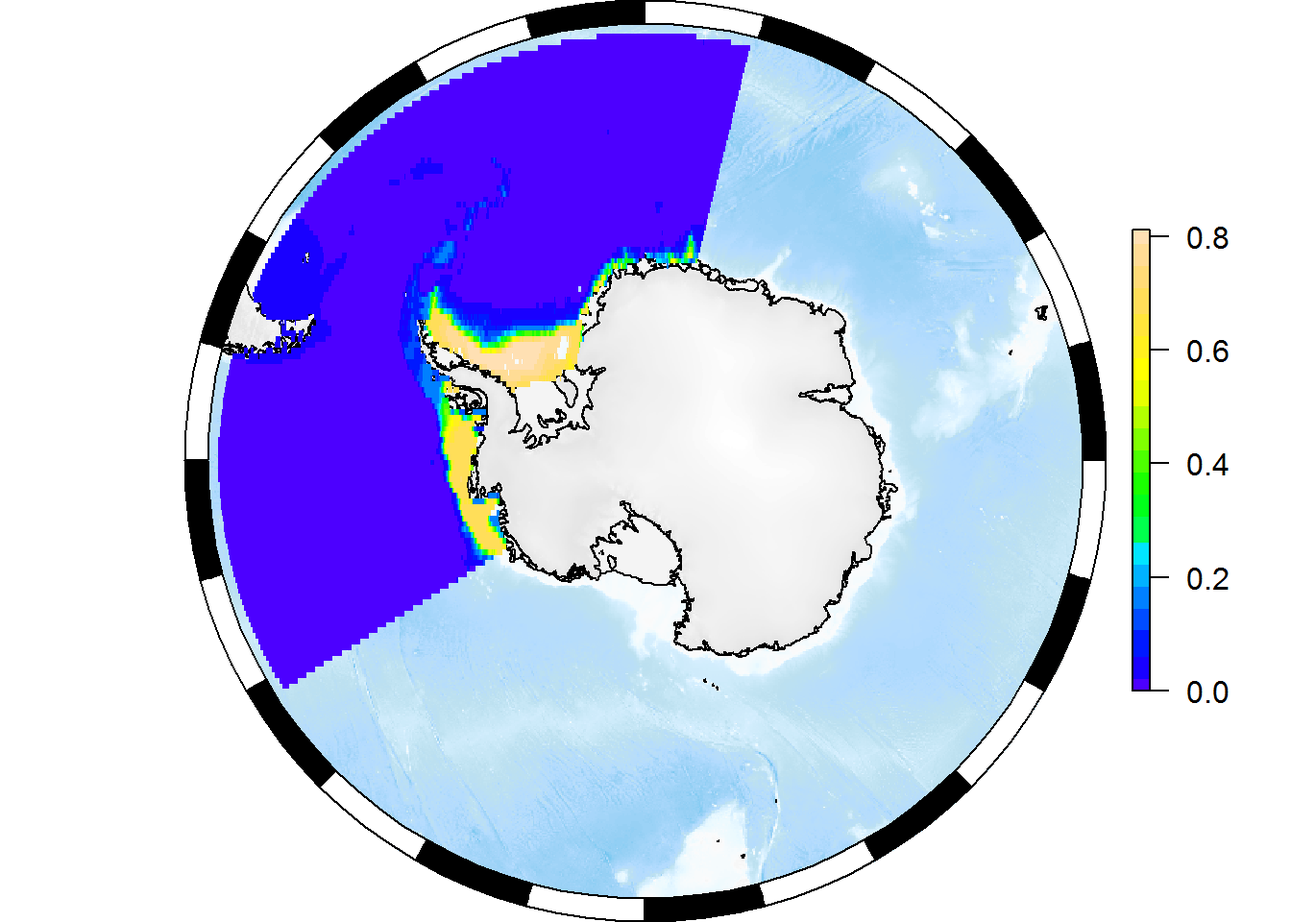
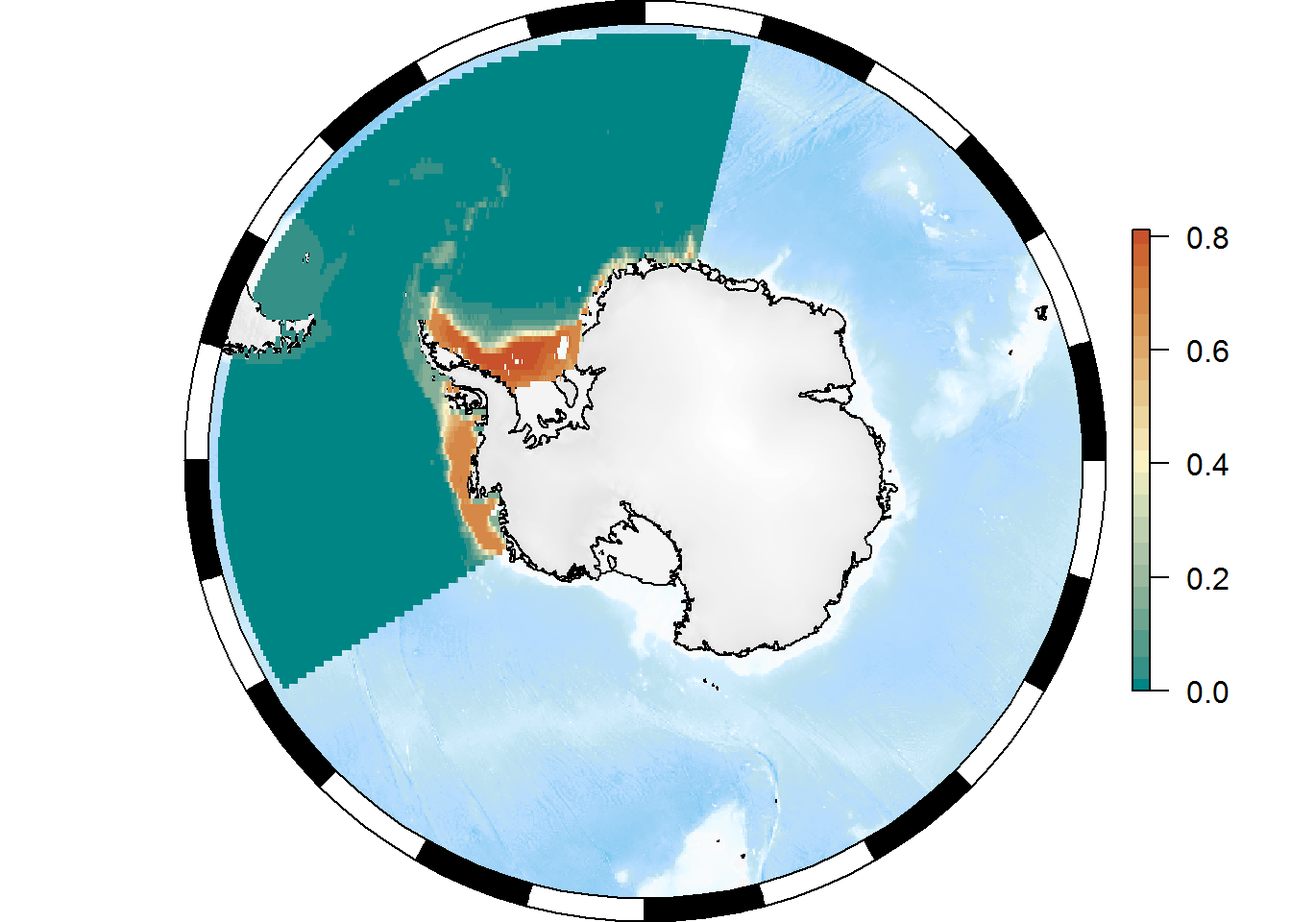
mapping

Changed region(s): [[0.1562, 0.0312, 0.5938, 0.75], [0.875, 0.25, 0.9062, 0.75]]

diff --git a/docs/mapping.html b/docs/mapping.html
@@ -162,6 +162,7 @@ code > span.in { color: #60a0b0; font-weight: bold; font-style: italic; } /* Inf
 <div id="somap" class="section level2">
 <h2><span class="header-section-number">5.1</span> SOmap</h2>
 <p>The <code>SOmap</code> package is intended to provide an easy way to produce nice-looking maps of Antarctica and the Southern Ocean. It is primarily focused on maps in polar stereographic projection (although the <code>SOmap_auto</code> function extends this to other projections). <code>SOmap</code> won’t necessarily get you exactly the map you want. But if it doesn’t, it should hopefully get you close enough that you can make modifications to suit your exact purposes.</p>
+<p>Please bear in mind that <code>SOmap</code> is still in development, and so its functionality (function parameters and/or behaviour) may change.</p>
 <p>By default, <code>SOmap</code> works with base graphics (and associated functionality from packages such as <code>raster</code> and <code>sp</code>). It is also possible to work with <code>ggplot2</code>-based graphics, as described below.</p>
 <div id="circumpolar-maps" class="section level3">
 <h3><span class="header-section-number">5.1.1</span> Circumpolar maps</h3>
@@ -208,17 +209,17 @@ xr &lt;-<span class="st"> </span><span class="kw">rasterFromXYZ</span>(temp)
 <p><img src="_main_files/figure-html/somap_raster2-1.png" width="672" /></p>
 <p>The legend is out of character with the rest of the map. We can use <code>SOleg</code> to fix that:</p>
 <div class="sourceCode"><pre class="sourceCode r"><code class="sourceCode r">## colour map to use
-my_colourmap &lt;-<span class="st"> </span><span class="kw">colorRampPalette</span>(<span class="kw">c</span>(<span class="st">&quot;#4D4140&quot;</span>, <span class="st">&quot;#596F7E&quot;</span>, <span class="st">&quot;#168B98&quot;</span>,
+my_cmap &lt;-<span class="st"> </span><span class="kw">colorRampPalette</span>(<span class="kw">c</span>(<span class="st">&quot;#4D4140&quot;</span>, <span class="st">&quot;#596F7E&quot;</span>, <span class="st">&quot;#168B98&quot;</span>,
                                    <span class="st">&quot;#ED5B67&quot;</span>, <span class="st">&quot;#E27766&quot;</span>, <span class="st">&quot;#DAAD50&quot;</span>, <span class="st">&quot;#EAC3A6&quot;</span>))(<span class="dv">51</span>)
 
 ## draw the base map
 <span class="kw">SOmap</span>()
 
 ## add our raster
-<span class="kw">SOplot</span>(xr, <span class="dt">legend =</span> <span class="ot">FALSE</span>, <span class="dt">col =</span> my_colourmap)
+<span class="kw">SOplot</span>(xr, <span class="dt">legend =</span> <span class="ot">FALSE</span>, <span class="dt">col =</span> my_cmap)
 
 ## add the legend
-<span class="kw">SOleg</span>(xr, <span class="dt">position =</span> <span class="st">&quot;topright&quot;</span>, <span class="dt">col =</span> my_colourmap, <span class="dt">ticks =</span> <span class="dv">6</span>,
+<span class="kw">SOleg</span>(xr, <span class="dt">position =</span> <span class="st">&quot;topright&quot;</span>, <span class="dt">col =</span> my_cmap, <span class="dt">ticks =</span> <span class="dv">6</span>,
       <span class="dt">type =</span> <span class="st">&quot;continuous&quot;</span>, <span class="dt">label =</span> <span class="st">&quot;My variable&quot;</span>)</code></pre></div>
 <p><img src="_main_files/figure-html/somap_raster3-1.png" width="672" /></p>
 <p>OK, well that worked but clearly the labels need tidying up. We can do that, but we have to be careful to make sure that the colour range of the legend matches that of the plotted raster.</p>
@@ -226,19 +227,19 @@ my_colourmap &lt;-<span class="st"> </span><span class="kw">colorRampPalette</sp
 <span class="kw">SOmap</span>()
 
 ## add our raster, controlling the colour range to span the values 0 to 30
-<span class="kw">SOplot</span>(xr, <span class="dt">legend =</span> <span class="ot">FALSE</span>, <span class="dt">col =</span> my_colourmap,
-       <span class="dt">breaks =</span> <span class="kw">seq</span>(<span class="dv">0</span>, <span class="dv">30</span>, <span class="dt">length.out =</span> <span class="kw">length</span>(my_colourmap) <span class="op">+</span><span class="st"> </span><span class="dv">1</span>))
+<span class="kw">SOplot</span>(xr, <span class="dt">legend =</span> <span class="ot">FALSE</span>, <span class="dt">col =</span> my_cmap,
+       <span class="dt">breaks =</span> <span class="kw">seq</span>(<span class="dv">0</span>, <span class="dv">30</span>, <span class="dt">length.out =</span> <span class="kw">length</span>(my_cmap) <span class="op">+</span><span class="st"> </span><span class="dv">1</span>))
 
 ## add the legend, again controlling the colour range
-<span class="kw">SOleg</span>(<span class="dt">position =</span> <span class="st">&quot;topright&quot;</span>, <span class="dt">col =</span> my_colourmap,
+<span class="kw">SOleg</span>(<span class="dt">position =</span> <span class="st">&quot;topright&quot;</span>, <span class="dt">col =</span> my_cmap,
       <span class="dt">breaks =</span> <span class="kw">seq</span>(<span class="dv">0</span>, <span class="dv">30</span>, <span class="dt">length.out =</span> <span class="dv">7</span>),
       <span class="dt">type =</span> <span class="st">&quot;continuous&quot;</span>, <span class="dt">label =</span> <span class="st">&quot;My variable&quot;</span>)</code></pre></div>
 <p><img src="_main_files/figure-html/somap_raster4-1.png" width="672" /></p>
 <p>Multiple rasters:</p>
 <div class="sourceCode"><pre class="sourceCode r"><code class="sourceCode r">xr2 &lt;-<span class="st"> </span><span class="kw">shift</span>(xr, <span class="dt">x =</span> <span class="op">-</span><span class="dv">70</span>) ## offset in longitude
 <span class="kw">SOmap</span>()
-<span class="kw">SOplot</span>(xr, <span class="dt">legend =</span> <span class="ot">FALSE</span>, <span class="dt">col =</span> my_colourmap)
-<span class="kw">SOplot</span>(xr2, <span class="dt">legend =</span> <span class="ot">FALSE</span>, <span class="dt">col =</span> my_colourmap)</code></pre></div>
+<span class="kw">SOplot</span>(xr, <span class="dt">legend =</span> <span class="ot">FALSE</span>, <span class="dt">col =</span> my_cmap)
+<span class="kw">SOplot</span>(xr2, <span class="dt">legend =</span> <span class="ot">FALSE</span>, <span class="dt">col =</span> my_cmap)</code></pre></div>
 <p><img src="_main_files/figure-html/somap_raster5-1.png" width="672" /></p>
 </div>
 <div id="modifying-maps" class="section level4">
@@ -267,15 +268,46 @@ my_colourmap &lt;-<span class="st"> </span><span class="kw">colorRampPalette</sp
 <div class="sourceCode"><pre class="sourceCode r"><code class="sourceCode r">mymap<span class="op">$</span>ice[[<span class="dv">1</span>]]<span class="op">$</span>plotargs<span class="op">$</span>col &lt;-<span class="st"> &quot;green&quot;</span></code></pre></div>
 <div class="sourceCode"><pre class="sourceCode r"><code class="sourceCode r"><span class="kw">plot</span>(mymap)</code></pre></div>
 <p><img src="_main_files/figure-html/somap2d-1.png" width="672" /></p>
+<p>We can remove entire components:</p>
+<div class="sourceCode"><pre class="sourceCode r"><code class="sourceCode r">temp &lt;-<span class="st"> </span>mymap
+temp<span class="op">$</span>coastline &lt;-<span class="st"> </span><span class="ot">NULL</span>
+temp<span class="op">$</span>ice &lt;-<span class="st"> </span><span class="ot">NULL</span>
+<span class="kw">plot</span>(temp)</code></pre></div>
+<p><img src="_main_files/figure-html/somap2e-1.png" width="672" /></p>
+<p>But note that some elements are required (in particular, the bathymetry layer can’t currently be removed because the code that draws this is also the code that creates the plot). This code would fail (not run here):</p>
+<div class="sourceCode"><pre class="sourceCode r"><code class="sourceCode r">temp &lt;-<span class="st"> </span>mymap
+temp<span class="op">$</span>bathy &lt;-<span class="st"> </span><span class="ot">NULL</span>
+<span class="kw">plot</span>(temp)</code></pre></div>
 </div>
 </div>
 <div id="non-circumpolar-maps" class="section level3">
 <h3><span class="header-section-number">5.1.2</span> Non-circumpolar maps</h3>
-<ul>
-<li>via <code>SOmap_auto</code></li>
-<li>note that this is not always going to guess the best projection/extent</li>
-<li>best viewed as a starting point for your own maps</li>
-</ul>
+<p>The <code>SOmap_auto</code> function will take your input data and make a guess at an appropriate projection and extent to use. Note that this is not always going to guess the <em>best</em> projection and extent, so you should view it as a starting point from which you can generate a map to your exact requirements.</p>
+<p>Use the elephant seal track data bundled with the package:</p>
+<div class="sourceCode"><pre class="sourceCode r"><code class="sourceCode r">ellie &lt;-<span class="st"> </span>SOmap_data<span class="op">$</span>mirounga_leonina
+
+## construct and plot the map
+<span class="kw">SOmap_auto</span>(ellie<span class="op">$</span>lon, ellie<span class="op">$</span>lat)</code></pre></div>
+<p><img src="_main_files/figure-html/soauto1-1.png" width="672" /></p>
+<p>Just a blank map to which you could add other things:</p>
+<div class="sourceCode"><pre class="sourceCode r"><code class="sourceCode r"><span class="kw">SOmap_auto</span>(ellie<span class="op">$</span>lon, ellie<span class="op">$</span>lat, <span class="dt">input_points =</span> <span class="ot">FALSE</span>, <span class="dt">input_lines =</span> <span class="ot">FALSE</span>)</code></pre></div>
+<p><img src="_main_files/figure-html/soauto2-1.png" width="672" /></p>
+<p>You can pass a raster as input data, but note that it won’t plot the raster (it uses its extent to infer an appropriate extent for the map):</p>
+<div class="sourceCode"><pre class="sourceCode r"><code class="sourceCode r"><span class="kw">SOmap_auto</span>(xr)</code></pre></div>
+<p><img src="_main_files/figure-html/soauto3-1.png" width="672" /></p>
+<p>But we can add the raster if we wish:</p>
+<div class="sourceCode"><pre class="sourceCode r"><code class="sourceCode r"><span class="kw">SOmap_auto</span>(xr)
+<span class="kw">SOplot</span>(xr, <span class="dt">col =</span> my_cmap)</code></pre></div>
+<p><img src="_main_files/figure-html/soauto4-1.png" width="672" /></p>
+<p>We can force a particular projection:</p>
+<div class="sourceCode"><pre class="sourceCode r"><code class="sourceCode r"><span class="kw">SOmap_auto</span>(xr, <span class="dt">target =</span> <span class="st">&quot;laea&quot;</span>, <span class="dt">centre_lon =</span> <span class="dv">147</span>, <span class="dt">centre_lat =</span> <span class="op">-</span><span class="dv">42</span>)
+<span class="kw">SOplot</span>(xr, <span class="dt">col =</span> my_cmap)</code></pre></div>
+<p><img src="_main_files/figure-html/soauto5-1.png" width="672" /></p>
+<p>Same but by supplying a full proj4 string to <code>target</code>:</p>
+<div class="sourceCode"><pre class="sourceCode r"><code class="sourceCode r"><span class="kw">SOmap_auto</span>(xr, <span class="dt">target =</span> <span class="st">&quot;+proj=laea +lat_0=-42 +lon_0=147&quot;</span>)
+<span class="kw">SOplot</span>(xr, <span class="dt">col =</span> my_cmap)</code></pre></div>
+<p><img src="_main_files/figure-html/soauto6-1.png" width="672" /></p>
+<p>See <a href="https://australianantarcticdivision.github.io/SOmap/articles/many-automap-examples.html">the SOmap_auto vignette</a> for more examples.</p>
 </div>
 <div id="plotting-via-ggplot2" class="section level3">
 <h3><span class="header-section-number">5.1.3</span> Plotting via ggplot2</h3>
@@ -349,8 +381,11 @@ my_ggplot <span class="op">+</span><span class="st"> </span><span class="kw">geo
 <p>Note, this package is still in development, so the usage as shown here might change in later versions. Install if needed:</p>
 <div class="sourceCode"><pre class="sourceCode r"><code class="sourceCode r">remotes<span class="op">::</span><span class="kw">install_github</span>(<span class="st">&quot;SCAR-sandpit/quantarcticR&quot;</span>)</code></pre></div>
 <p>Example usage:</p>
-<div class="sourceCode"><pre class="sourceCode r"><code class="sourceCode r"><span class="kw">library</span>(quantarcticR)
-ds &lt;-<span class="st"> </span><span class="kw">qa_datasets</span>() ## all available layers
+<div class="sourceCode"><pre class="sourceCode r"><code class="sourceCode r"><span class="kw">library</span>(quantarcticR)</code></pre></div>
+<pre><code>## Quantarctica is made available under a CC-BY license. If you use it, please cite it:
+## Matsuoka K, Skoglund A, Roth G (2018) Quantarctica [Data set]. Norwegian Polar Institute. https://doi.org/10.21334/npolar.2018.8516e961
+## In addition, published works produced using Quantarctica are asked to cite each dataset that was used in the work. Please consult the abstract of each data set for the relevant citation.</code></pre>
+<div class="sourceCode"><pre class="sourceCode r"><code class="sourceCode r">ds &lt;-<span class="st"> </span><span class="kw">qa_datasets</span>() ## all available layers
 <span class="kw">head</span>(ds)</code></pre></div>
 <pre><code>## # A tibble: 6 x 5
 ##   layername                          
@@ -363,12 +398,12 @@ ds &lt;-<span class="st"> </span><span class="kw">qa_datasets</span>() ## all av
 ## 6 IBO-IOC GEBCO Features (multipoint)
 ##   main_file                                                                
 ##   &lt;chr&gt;                                                                    
-## 1 &quot;C:\\Users\\ben_ray\\AppData\\Local\\Temp\\RtmpEZ0HNN/quantarcticR-cache~
-## 2 &quot;C:\\Users\\ben_ray\\AppData\\Local\\Temp\\RtmpEZ0HNN/quantarcticR-cache~
-## 3 &quot;C:\\Users\\ben_ray\\AppData\\Local\\Temp\\RtmpEZ0HNN/quantarcticR-cache~
-## 4 &quot;C:\\Users\\ben_ray\\AppData\\Local\\Temp\\RtmpEZ0HNN/quantarcticR-cache~
-## 5 &quot;C:\\Users\\ben_ray\\AppData\\Local\\Temp\\RtmpEZ0HNN/quantarcticR-cache~
-## 6 &quot;C:\\Users\\ben_ray\\AppData\\Local\\Temp\\RtmpEZ0HNN/quantarcticR-cache~
+## 1 &quot;C:\\Users\\ben_ray\\AppData\\Local\\Temp\\RtmpAxr37I/quantarcticR-cache~
+## 2 &quot;C:\\Users\\ben_ray\\AppData\\Local\\Temp\\RtmpAxr37I/quantarcticR-cache~
+## 3 &quot;C:\\Users\\ben_ray\\AppData\\Local\\Temp\\RtmpAxr37I/quantarcticR-cache~
+## 4 &quot;C:\\Users\\ben_ray\\AppData\\Local\\Temp\\RtmpAxr37I/quantarcticR-cache~
+## 5 &quot;C:\\Users\\ben_ray\\AppData\\Local\\Temp\\RtmpAxr37I/quantarcticR-cache~
+## 6 &quot;C:\\Users\\ben_ray\\AppData\\Local\\Temp\\RtmpAxr37I/quantarcticR-cache~
 ##   type      cached download_size
 ##   &lt;chr&gt;     &lt;lgl&gt;    &lt;fs::bytes&gt;
 ## 1 shapefile FALSE         19.74K
@@ -398,7 +433,7 @@ my_layer</code></pre></div>
 ## 1 &lt;NULL&gt; shapefile          131K
 ##   main_file                                                                
 ##   &lt;chr&gt;                                                                    
-## 1 &quot;C:\\Users\\ben_ray\\AppData\\Local\\Temp\\RtmpEZ0HNN/quantarcticR-cache~
+## 1 &quot;C:\\Users\\ben_ray\\AppData\\Local\\Temp\\RtmpAxr37I/quantarcticR-cache~
 ##   bb_source$id                                 
 ##   &lt;chr&gt;                                        
 ## 1 Quantarctica: Median sea ice extent 1981-2010

diff --git a/docs/overview.html b/docs/overview.html
@@ -168,6 +168,7 @@ pkgs &lt;-<span class="st"> </span><span class="kw">setdiff</span>(pkgs, <span c
 <span class="cf">if</span> (<span class="kw">length</span>(pkgs) <span class="op">&gt;</span><span class="st"> </span><span class="dv">0</span>) <span class="kw">install.packages</span>(pkgs)
 
 <span class="kw">library</span>(dplyr)</code></pre></div>
+<pre><code>## Warning: package &#39;dplyr&#39; was built under R version 3.4.4</code></pre>
 <p>And from GitHub:</p>
 <div class="sourceCode"><pre class="sourceCode r"><code class="sourceCode r">## packages with required minimum version
 pkgs &lt;-<span class="st"> </span><span class="kw">c</span>(<span class="st">&quot;SCAR/antanym&quot;</span> =<span class="st"> </span><span class="ot">NA</span>, <span class="st">&quot;AustralianAntarcticDivision/blueant&quot;</span> =<span class="st"> </span><span class="ot">NA</span>,
@@ -194,15 +195,15 @@ tax</code></pre></div>
 ##   scientificname             authority               status  
 ##   &lt;chr&gt;                      &lt;chr&gt;                   &lt;chr&gt;   
 ## 1 Euphausia crystallorophias Holt &amp; Tattersall, 1906 accepted
-##   unacceptreason taxonRankID rank    valid_AphiaID
-##   &lt;lgl&gt;                &lt;int&gt; &lt;chr&gt;           &lt;int&gt;
-## 1 NA                     220 Species        236216
-##   valid_name                 valid_authority         parentNameUsageID
-##   &lt;chr&gt;                      &lt;chr&gt;                               &lt;int&gt;
-## 1 Euphausia crystallorophias Holt &amp; Tattersall, 1906            110673
-##   kingdom  phylum     class        order        family       genus    
-##   &lt;chr&gt;    &lt;chr&gt;      &lt;chr&gt;        &lt;chr&gt;        &lt;chr&gt;        &lt;chr&gt;    
-## 1 Animalia Arthropoda Malacostraca Euphausiacea Euphausiidae Euphausia
+##   unacceptreason taxonRankID rank  valid_AphiaID valid_name                
+##   &lt;lgl&gt;                &lt;int&gt; &lt;lgl&gt;         &lt;int&gt; &lt;chr&gt;                     
+## 1 NA                     220 NA           236216 Euphausia crystallorophias
+##   valid_authority         parentNameUsageID kingdom phylum class order
+##   &lt;chr&gt;                               &lt;int&gt; &lt;lgl&gt;   &lt;lgl&gt;  &lt;lgl&gt; &lt;lgl&gt;
+## 1 Holt &amp; Tattersall, 1906            110673 NA      NA     NA    NA   
+##   family genus
+##   &lt;lgl&gt;  &lt;lgl&gt;
+## 1 NA     NA   
 ##   citation                                                                 
 ##   &lt;chr&gt;                                                                    
 ## 1 Siegel, V. (Ed) (2019). World Euphausiacea Database. Euphausia crystallo~
@@ -224,8 +225,10 @@ my_aphia_id &lt;-<span class="st"> </span>tax[[<span class="dv">1</span>]]<span 
 ##x &lt;- occurrence(datasetid = ds$id[6])
 x &lt;-<span class="st"> </span><span class="kw">occurrence</span>(<span class="dt">datasetid =</span> <span class="st">&quot;cb16377b-56a8-4d95-802d-4eec02466773&quot;</span>)</code></pre></div>
 <p>Plot the complete distribution of samples in black, and <em>Euphausia crystallorophias</em> in green:</p>
-<div class="sourceCode"><pre class="sourceCode r"><code class="sourceCode r"><span class="kw">library</span>(SOmap)
-<span class="kw">SOmap_auto</span>(x<span class="op">$</span>decimalLongitude, x<span class="op">$</span>decimalLatitude, <span class="dt">input_lines =</span> <span class="ot">FALSE</span>, <span class="dt">pcol =</span> <span class="st">&quot;black&quot;</span>, <span class="dt">pcex =</span> <span class="fl">0.2</span>)
+<div class="sourceCode"><pre class="sourceCode r"><code class="sourceCode r"><span class="kw">library</span>(SOmap)</code></pre></div>
+<pre><code>## Warning: package &#39;raster&#39; was built under R version 3.4.4</code></pre>
+<pre><code>## Warning: package &#39;sp&#39; was built under R version 3.4.4</code></pre>
+<div class="sourceCode"><pre class="sourceCode r"><code class="sourceCode r"><span class="kw">SOmap_auto</span>(x<span class="op">$</span>decimalLongitude, x<span class="op">$</span>decimalLatitude, <span class="dt">input_lines =</span> <span class="ot">FALSE</span>, <span class="dt">pcol =</span> <span class="st">&quot;black&quot;</span>, <span class="dt">pcex =</span> <span class="fl">0.2</span>)
 <span class="kw">with</span>(x <span class="op">%&gt;%</span><span class="st"> </span>dplyr<span class="op">::</span><span class="kw">filter</span>(aphiaID <span class="op">==</span><span class="st"> </span>my_aphia_id), 
      <span class="kw">SOplot</span>(decimalLongitude, decimalLatitude, <span class="dt">pch =</span> <span class="dv">19</span>, <span class="dt">cex =</span> <span class="fl">0.2</span>, <span class="dt">col =</span> <span class="st">&quot;green&quot;</span>))</code></pre></div>
 <p><img src="_main_files/figure-html/map1-1.png" width="672" /></p>
@@ -253,17 +256,17 @@ data_source &lt;-<span class="st"> </span><span class="kw">sources_sdm</span>(<s
 ## fetch the data
 status &lt;-<span class="st"> </span><span class="kw">bb_get</span>(data_source, <span class="dt">local_file_root =</span> my_data_directory, <span class="dt">verbose =</span> <span class="ot">TRUE</span>)</code></pre></div>
 <pre><code>## 
-## Thu Jul 11 09:53:32 2019
+## Tue Jul 16 14:20:35 2019
 ## Synchronizing dataset: Southern Ocean marine environmental data
 ## Source URL https://data.aad.gov.au/eds/4742/download
 ## --------------------------------------------------------------------------------------------
 ## 
-##  this dataset path is: C:\Users\ben_ray\AppData\Local\Temp\RtmpWCYdnP/data.aad.gov.au/eds/4742
+##  this dataset path is: C:\Users\ben_ray\AppData\Local\Temp\RtmpwHNnAl/data.aad.gov.au/eds/4742
 ##  building file list ... done.
 ##  downloading file 1 of 1: https://data.aad.gov.au/eds/4742/download ...  done.
-##   decompressing: C:\Users\ben_ray\AppData\Local\Temp\RtmpWCYdnP/data.aad.gov.au/eds/4742/download.zip ... extracting 60 files into C:/Users/ben_ray/AppData/Local/Temp/RtmpWCYdnP/data.aad.gov.au/eds/4742 ... done.
+##   decompressing: C:\Users\ben_ray\AppData\Local\Temp\RtmpwHNnAl/data.aad.gov.au/eds/4742/download.zip ... extracting 60 files into C:/Users/ben_ray/AppData/Local/Temp/RtmpwHNnAl/data.aad.gov.au/eds/4742 ... done.
 ## 
-## Thu Jul 11 09:53:40 2019 dataset synchronization complete: Southern Ocean marine environmental data</code></pre>
+## Tue Jul 16 14:20:43 2019 dataset synchronization complete: Southern Ocean marine environmental data</code></pre>
 <div class="sourceCode"><pre class="sourceCode r"><code class="sourceCode r">nc_files &lt;-<span class="st"> </span><span class="kw">Filter</span>(<span class="cf">function</span>(z) <span class="kw">grepl</span>(<span class="st">&quot;</span><span class="ch">\\</span><span class="st">.nc$&quot;</span>, z), status<span class="op">$</span>files[[<span class="dv">1</span>]]<span class="op">$</span>file)
 
 ## create a raster stack of all layers
@@ -339,7 +342,7 @@ xpred<span class="op">$</span>predicted &lt;-<span class="st"> </span><span clas
 pr &lt;-<span class="st"> </span><span class="kw">rasterFromXYZ</span>(xpred[, <span class="kw">c</span>(<span class="st">&quot;lon&quot;</span>, <span class="st">&quot;lat&quot;</span>, <span class="st">&quot;predicted&quot;</span>)])
 <span class="kw">projection</span>(pr) &lt;-<span class="st"> &quot;+proj=longlat +datum=WGS84&quot;</span>
 
-my_cmap &lt;-<span class="st"> </span><span class="cf">if</span> (<span class="kw">getRversion</span>() <span class="op">&gt;=</span><span class="st"> &quot;3.6&quot;</span>) <span class="kw">hcl.colors</span>(<span class="dv">21</span>, <span class="st">&quot;Geyser&quot;</span>) <span class="cf">else</span> <span class="kw">topo.colors</span>(<span class="dv">21</span>)</code></pre></div>
+my_cmap &lt;-<span class="st"> </span><span class="cf">if</span> (<span class="kw">getRversion</span>() <span class="op">&gt;=</span><span class="st"> &quot;3.6&quot;</span>) <span class="kw">hcl.colors</span>(<span class="dv">21</span>, <span class="st">&quot;Geyser&quot;</span>) <span class="cf">else</span> <span class="kw">c</span>(<span class="st">&quot;#008585&quot;</span>, <span class="st">&quot;#359087&quot;</span>, <span class="st">&quot;#539B8A&quot;</span>, <span class="st">&quot;#6DA590&quot;</span>, <span class="st">&quot;#85AF97&quot;</span>, <span class="st">&quot;#9BBAA0&quot;</span>, <span class="st">&quot;#AEC4AA&quot;</span>, <span class="st">&quot;#BED0B0&quot;</span>, <span class="st">&quot;#D0DCB5&quot;</span>, <span class="st">&quot;#E5E7BC&quot;</span>, <span class="st">&quot;#FBF2C4&quot;</span>, <span class="st">&quot;#F3E3B2&quot;</span>, <span class="st">&quot;#EDD59F&quot;</span>, <span class="st">&quot;#E7C68C&quot;</span>, <span class="st">&quot;#E3B77A&quot;</span>, <span class="st">&quot;#DEA868&quot;</span>, <span class="st">&quot;#DA9857&quot;</span>, <span class="st">&quot;#D58847&quot;</span>, <span class="st">&quot;#D1773A&quot;</span>, <span class="st">&quot;#CC6530&quot;</span>, <span class="st">&quot;#C7522B&quot;</span>)</code></pre></div>
 <p>Plot it:</p>
 <div class="sourceCode"><pre class="sourceCode r"><code class="sourceCode r">p &lt;-<span class="st"> </span><span class="kw">SOmap_auto</span>(<span class="dt">x =</span> pr, <span class="dt">bathy =</span> pr)
 p<span class="op">$</span>bathy_palette &lt;-<span class="st"> </span>my_cmap
@@ -353,12 +356,22 @@ p</code></pre></div>
 <h2><span class="header-section-number">2.7</span> Other bits and pieces</h2>
 <div id="place-names" class="section level3">
 <h3><span class="header-section-number">2.7.1</span> Place names</h3>
-<div class="sourceCode"><pre class="sourceCode r"><code class="sourceCode r"><span class="kw">library</span>(antanym)
-
-## get full SCAR gazetteer data
-xn &lt;-<span class="st"> </span><span class="kw">an_read</span>(<span class="dt">cache =</span> <span class="st">&quot;session&quot;</span>, <span class="dt">sp =</span> <span class="ot">TRUE</span>)
-
-## reduce to one name per feature
+<div class="sourceCode"><pre class="sourceCode r"><code class="sourceCode r"><span class="kw">library</span>(antanym)</code></pre></div>
+<pre><code>## The Composite Gazetteer of Antarctica is made available under a CC-BY license.
+## If you use it, please cite it:
+## Composite Gazetteer of Antarctica, Scientific Committee on Antarctic Research. GCMD Metadata (http://gcmd.nasa.gov/records/SCAR_Gazetteer.html)</code></pre>
+<div class="sourceCode"><pre class="sourceCode r"><code class="sourceCode r">## get full SCAR gazetteer data
+xn &lt;-<span class="st"> </span><span class="kw">an_read</span>(<span class="dt">cache =</span> <span class="st">&quot;session&quot;</span>, <span class="dt">sp =</span> <span class="ot">TRUE</span>)</code></pre></div>
+<pre><code>## Warning: 64974 parsing failures.
+##  row                col           expected   actual         file
+## 1018 accepted_by        1/0/T/F/TRUE/FALSE U Harris literal data
+## 1018 verified_by        1/0/T/F/TRUE/FALSE U Harris literal data
+## 1412 accepted_by        1/0/T/F/TRUE/FALSE AUS      literal data
+## 2185 verified_by        1/0/T/F/TRUE/FALSE Brolsma  literal data
+## 2376 scar_feature_class 1/0/T/F/TRUE/FALSE 3        literal data
+## .... .................. .................. ........ ............
+## See problems(...) for more details.</code></pre>
+<div class="sourceCode"><pre class="sourceCode r"><code class="sourceCode r">## reduce to one name per feature
 xn &lt;-<span class="st"> </span><span class="kw">an_preferred</span>(xn, <span class="dt">origin =</span> <span class="st">&quot;United Kingdom&quot;</span>)
 
 ## ask for suggestions in our region to show on our map
